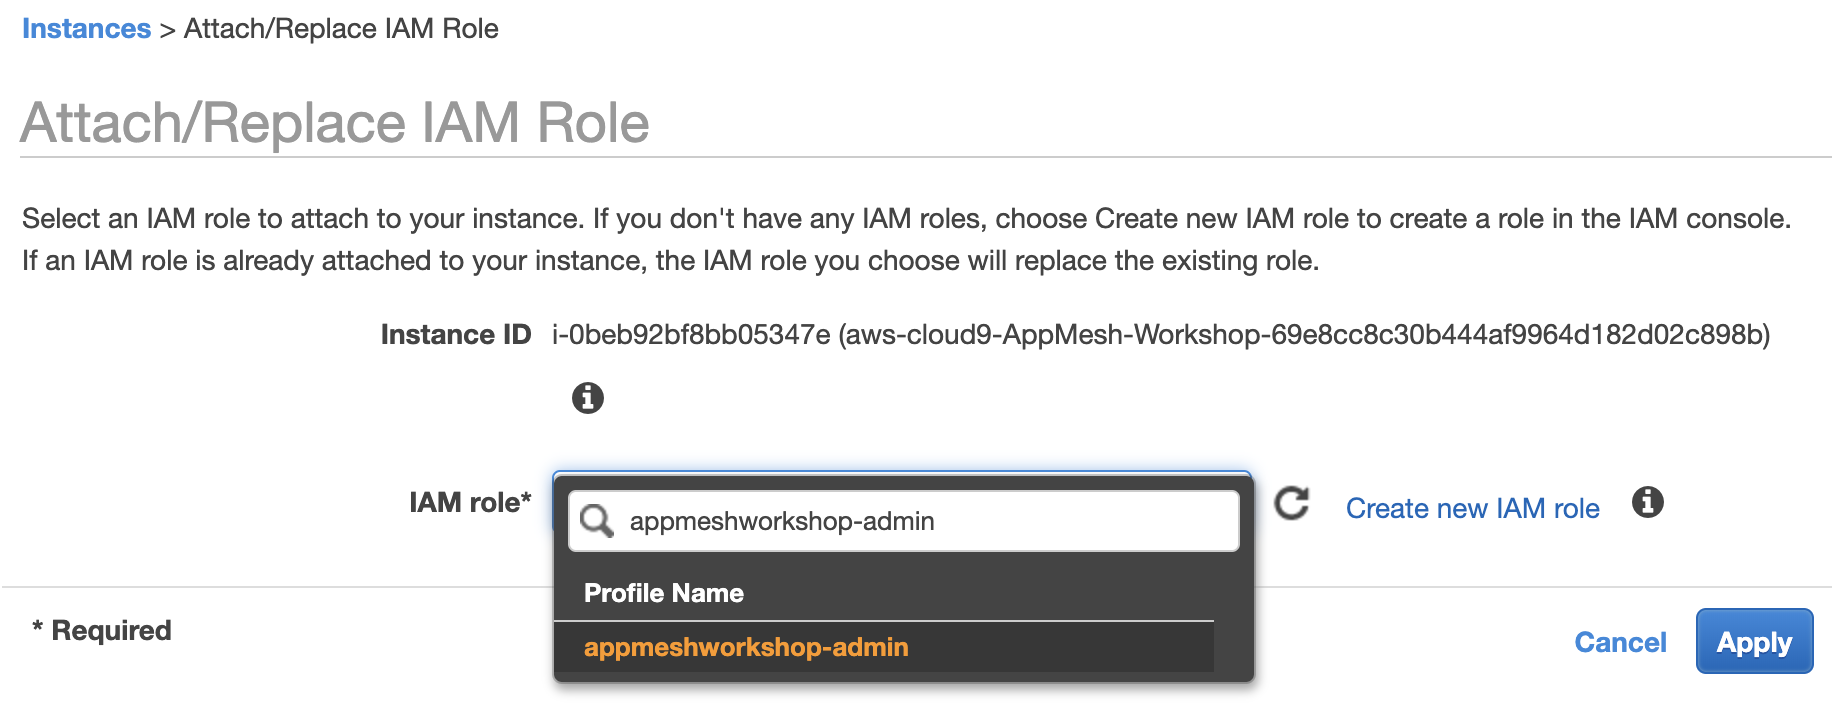
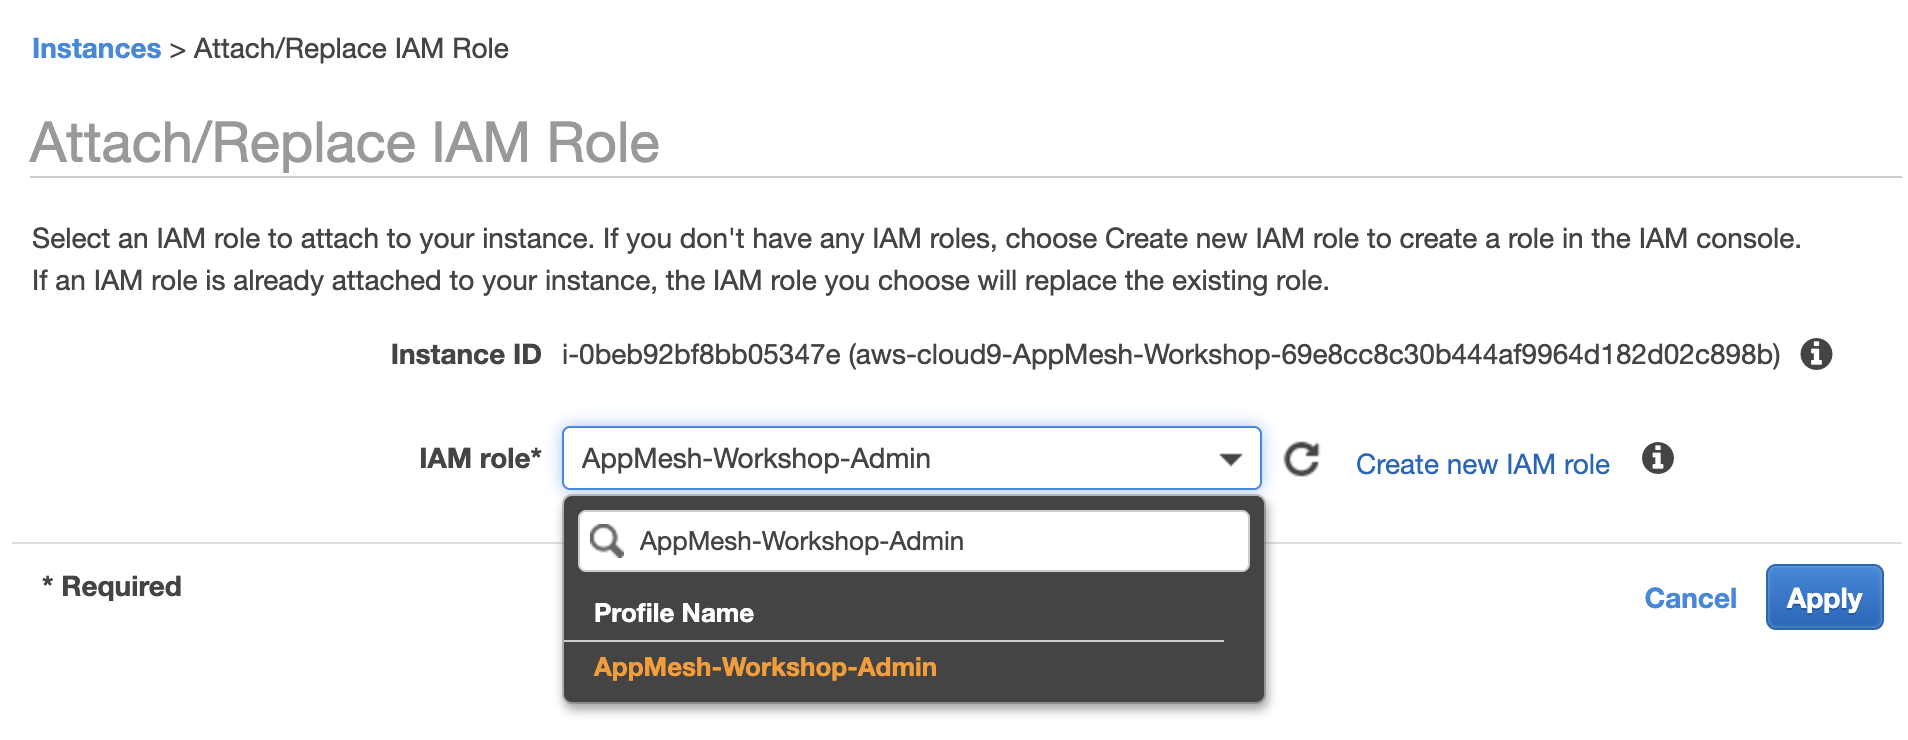
Adding service discovery

diff --git a/content/add_mesh/servicediscovery.md b/content/add_mesh/servicediscovery.md
@@ -1,0 +1,57 @@
+---
+title: "Add service discovery"
+date: 2018-09-18T17:39:30-05:00
+weight: 10
+---
+
+App Mesh supports microservice applications that use service discovery naming for their components. 
+In our baseline infrastructure, neither the frontend nor the crystal microservices have service discovery support.
+
+We will be using **AWS Cloud Map** to discover our resources. In some way our baseline infrastructure is already using this service. Cloud Map enables you to name your application resources with custom names, and it automatically updates the locations of these dynamically changing resources. 
+
+* Let's create a service in Cloud Map for our frontend microservice
+```
+NAMESPACE_ID=$(jq < cfn-output.json -r '.NamespaceId'); \
+aws servicediscovery create-service \
+    --name frontend \
+    --namespace-id $NAMESPACE_ID \
+    --description 'Discovery service for the frontend service' \
+    --dns-config 'RoutingPolicy=MULTIVALUE,DnsRecords=[{Type=SRV,TTL=60}]' \
+    --health-check-custom-config 'FailureThreshold=1'
+```
+
+{{% notice note %}}
+Check the json output, and write down the value of the **Id** that AWS Cloud Map assigned to the service you just created.
+{{% /notice %}}
+
+* We will use **Systems Manager State Manager** to configure the EC2 instances that serve the frontend microservice. State Manager uses documents to specify configuration. Create a YAML file in your Cloud9 environment named **register_instance.yml** with the following content:
+```
+---
+schemaVersion: '2.2'
+description: Register service instances
+parameters: 
+      serviceid:
+        type: String
+        description: The ID of the Cloud Map service
+mainSteps:
+- action: aws:runShellScript
+      name: configureServer
+      inputs:
+        runCommand:
+        - export AWS_DEFAULT_REGION=$(curl -s  http://169.254.169.254/latest/dynamic/instance-identity/document | jq -r '.region')
+        - INSTANCE_ID=$(curl http://169.254.169.254/latest/meta-data/instance-id);
+        - INSTANCE_IP=$(curl -s http://169.254.169.254/latest/meta-data/local-ipv4);
+        - aws servicediscovery register-instance --service-id {{serviceid}} --instance-id $INSTANCE_ID --attributes AWS_INSTANCE_IPV4=$INSTANCE_IP,AWS_INSTANCE_PORT=3000
+```
+
+* Call the SSM API to create the document
+```
+aws ssm create-document --name AppMesh-Workshop-RegisterInstance --document-format YAML --content file://register_instance.yml --document-type Command
+```
+
+* Create an association using State Manager. An association is a binding of the intent (described in the document) to a target specified by either a list of instance IDs or a tag query. Use the following command to create an association. Note that you are specifying a tag query in the target parameter and using the Frontend Auto Scaling group name. **Replace {serviceid} with the service id you wrote down previousy**.
+
+```
+AUTOSCALING_GROUP=$(jq < cfn-output.json -r '.RubyAutoScalingGroupName'); \
+aws ssm create-association --name AppMesh-Workshop-RegisterInstance --targets "Key=tag:aws:autoscaling:groupName,Values=$AUTOSCALING_GROUP" --schedule-expression "cron(0 0/30 * 1/1 * ? *)" --parameters "serviceid={serviceid}"
+```

diff --git a/content/add_mesh/virtualservices.md b/content/add_mesh/virtualservices.md
@@ -1,0 +1,24 @@
+---
+title: "Create the virtual services"
+date: 2018-09-18T17:39:30-05:00
+weight: 20
+---
+
+A virtual service is an abstraction of a real service that is provided by a virtual node in the mesh. Virtual nodes act as a logical pointer to a particular task group, such as an Amazon ECS service or a Kubernetes deployment.
+
+Let’s create the virtual services for our application microservices:
+
+```
+aws appmesh create-virtual-service --mesh-name AppMesh-Workshop \
+                                   --virtual-service-name frontend.appmeshworkshop.service
+```
+
+```
+aws appmesh create-virtual-service --mesh-name AppMesh-Workshop \
+                                   --virtual-service-name crystal.appmeshworkshop.service
+```
+
+```
+aws appmesh create-virtual-service --mesh-name AppMesh-Workshop \
+                                   --virtual-service-name nodejs.appmeshworkshop.service
+```

diff --git a/content/prerequisites/self_paced/ec2instance.md b/content/prerequisites/self_paced/ec2instance.md
@@ -4,8 +4,8 @@ chapter: false
 weight: 26
 ---
 
-1. Follow [this deep link to find your Cloud9 EC2 instance](https://console.aws.amazon.com/ec2/v2/home?#Instances:tag:Name=aws-cloud9-eksworkshop*;sort=desc:launchTime)
+1. Follow [this deep link to find your Cloud9 EC2 instance](https://console.aws.amazon.com/ec2/v2/home?#Instances:tag:Name=aws-cloud9-AppMesh-Workshop*;sort=desc:launchTime)
 1. Select the instance, then choose **Actions / Instance Settings / Attach/Replace IAM Role**
 ![c9instancerole](/images/c9instancerole.png)
-1. Choose **appmeshworkshop-admin** from the **IAM Role** drop down, and select **Apply**
+1. Choose **AppMesh-Workshop-Admin** from the **IAM Role** drop down, and select **Apply**
 ![c9attachrole](/images/c9attachrole.png)

diff --git a/content/add_mesh/createmesh.md b/content/add_mesh/createmesh.md
@@ -1,0 +1,15 @@
+---
+title: "Create the service mesh"
+date: 2018-09-18T16:01:14-05:00
+weight: 5
+---
+
+**AWS App Mesh** is a service mesh based on the **Envoy proxy**. It standardizes how microservices communicate, giving you end-to-end visibility and helping to ensure high-availability for your applications.
+
+Throughout this workshop we will use App Mesh, to gain consistent visibility and network traffic controls on our microservices running in **Amazon EC2, AWS Fargate and Amazon EKS**. 
+
+Let's start creating the service mesh. A service mesh is a logical boundary for network traffic between the services that reside within it.
+
+```
+aws appmesh create-mesh --mesh-name AppMesh-Workshop
+```

diff --git a/content/prerequisites/self_paced/iamrole.md b/content/prerequisites/self_paced/iamrole.md
@@ -8,5 +8,5 @@ weight: 25
 1. Follow [this deep link to create an IAM role with Administrator access.](https://console.aws.amazon.com/iam/home#/roles$new?step=review&commonUseCase=EC2%2BEC2&selectedUseCase=EC2&policies=arn:aws:iam::aws:policy%2FAdministratorAccess)
 1. Confirm that **AWS service** and **EC2** are selected, then click **Next** to view permissions.
 1. Confirm that **AdministratorAccess** is checked, then click **Next** to review.
-1. Enter **appmeshworkshop-admin** for the Name, and select **Create Role**
+1. Enter **AppMesh-Workshop-Admin** for the Name, and select **Create Role**
 ![createrole](/images/createrole.png)

diff --git a/content/prerequisites/self_paced/workspace.md b/content/prerequisites/self_paced/workspace.md
@@ -26,7 +26,7 @@ Cloud9 requires third-party-cookies. You can whitelist the [specific domains]( h
 Create a Cloud9 Environment: [https://us-west-2.console.aws.amazon.com/cloud9/home?region=us-west-2](https://us-west-2.console.aws.amazon.com/cloud9/home?region=us-west-2)
 
 - Select **Create environment**
-- Name it **appmeshworkshop**, and take all other defaults
+- Name it **AppMesh-Workshop**, and take all other defaults
 - When it comes up, customize the environment by closing the **welcome tab**
 and **lower work area**, and opening a new **terminal** tab in the main work area:
 ![c9before](/images/c9before.png)

diff --git a/content/prerequisites/workspaceiam.md b/content/prerequisites/workspaceiam.md
@@ -51,7 +51,7 @@ aws iam get-instance-profile --instance-profile-name $INSTANCE_PROFILE_NAME --qu
 
 The output assumed-role name should contain:
 ```
-eksworkshop-admin
+AppMesh-Workshop-Admin
 or
 TeamRole
 ```
@@ -64,7 +64,7 @@ If the _Arn_ contains the role name from above and an Instance ID, you may proce
 {
     "Account": "123456789012", 
     "UserId": "AROA1SAMPLEAWSIAMROLE:i-01234567890abcdef", 
-    "Arn": "arn:aws:sts::123456789012:assumed-role/eksworkshop-admin/i-01234567890abcdef"
+    "Arn": "arn:aws:sts::123456789012:assumed-role/AppMesh-Workshop-Admin/i-01234567890abcdef"
 }
 or
 {

diff --git a/content/prerequisites/bootstrapsh.md b/content/prerequisites/bootstrapsh.md
@@ -28,7 +28,7 @@ cat > scripts/bootstrap <<-"EOF"
   echo "Building Docker Containers"
   scripts/build-containers
   echo "Creating the ECS Services"
-  scripts/create-ecs-services
+  scripts/create-ecs-service
 
 EOF
 
@@ -67,7 +67,7 @@ cat > scripts/build-containers <<-"EOF"
 
   $(aws ecr get-login --no-include-email)
 
-  docker build -t frontend-service ecsdemo-frontend
+  docker build -t frontend-service ecsdemo-crystal
   docker tag frontend-service:latest $CRYSTAL_ECR_REPO:latest
   docker push $CRYSTAL_ECR_REPO:latest
 

diff --git a/content/prerequisites/_index.md b/content/prerequisites/_index.md
@@ -10,4 +10,4 @@ To start the workshop, follow one of the following depending on whether you are.
 * ...[running the workshop on your own](self_paced/), or
 * ...[attending an AWS hosted event](aws_event/)
 
-Once you have completed with either setup, continue with [**Create a SSH key section**](/prerequisites/sshkey/)
+Once you have completed with either setup, continue with [**Clone the service repos**](/prerequisites/clone/)
